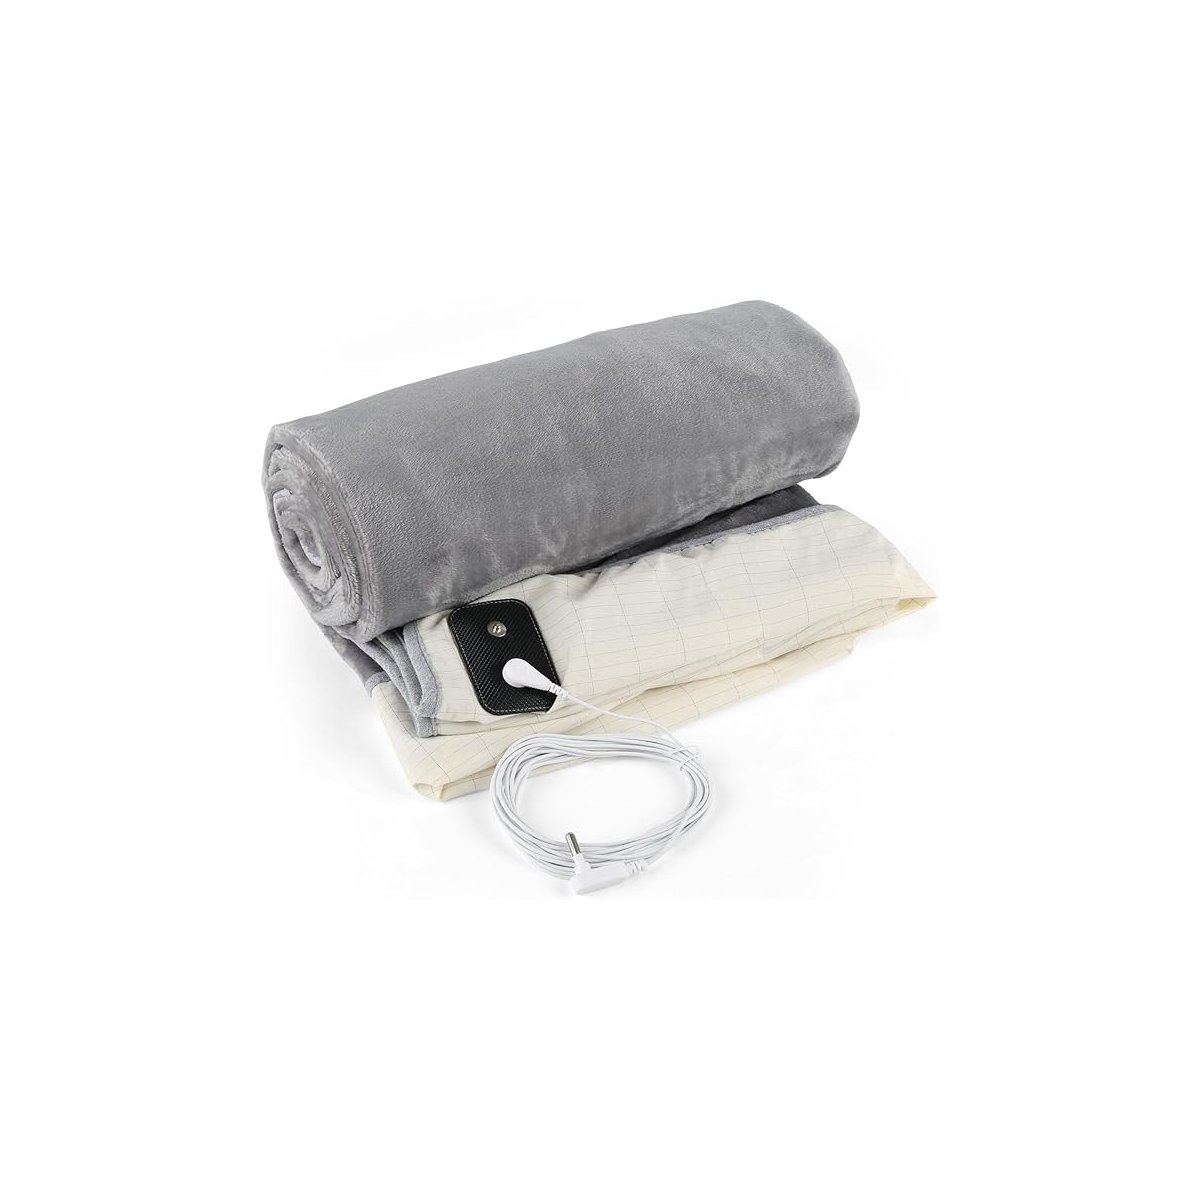
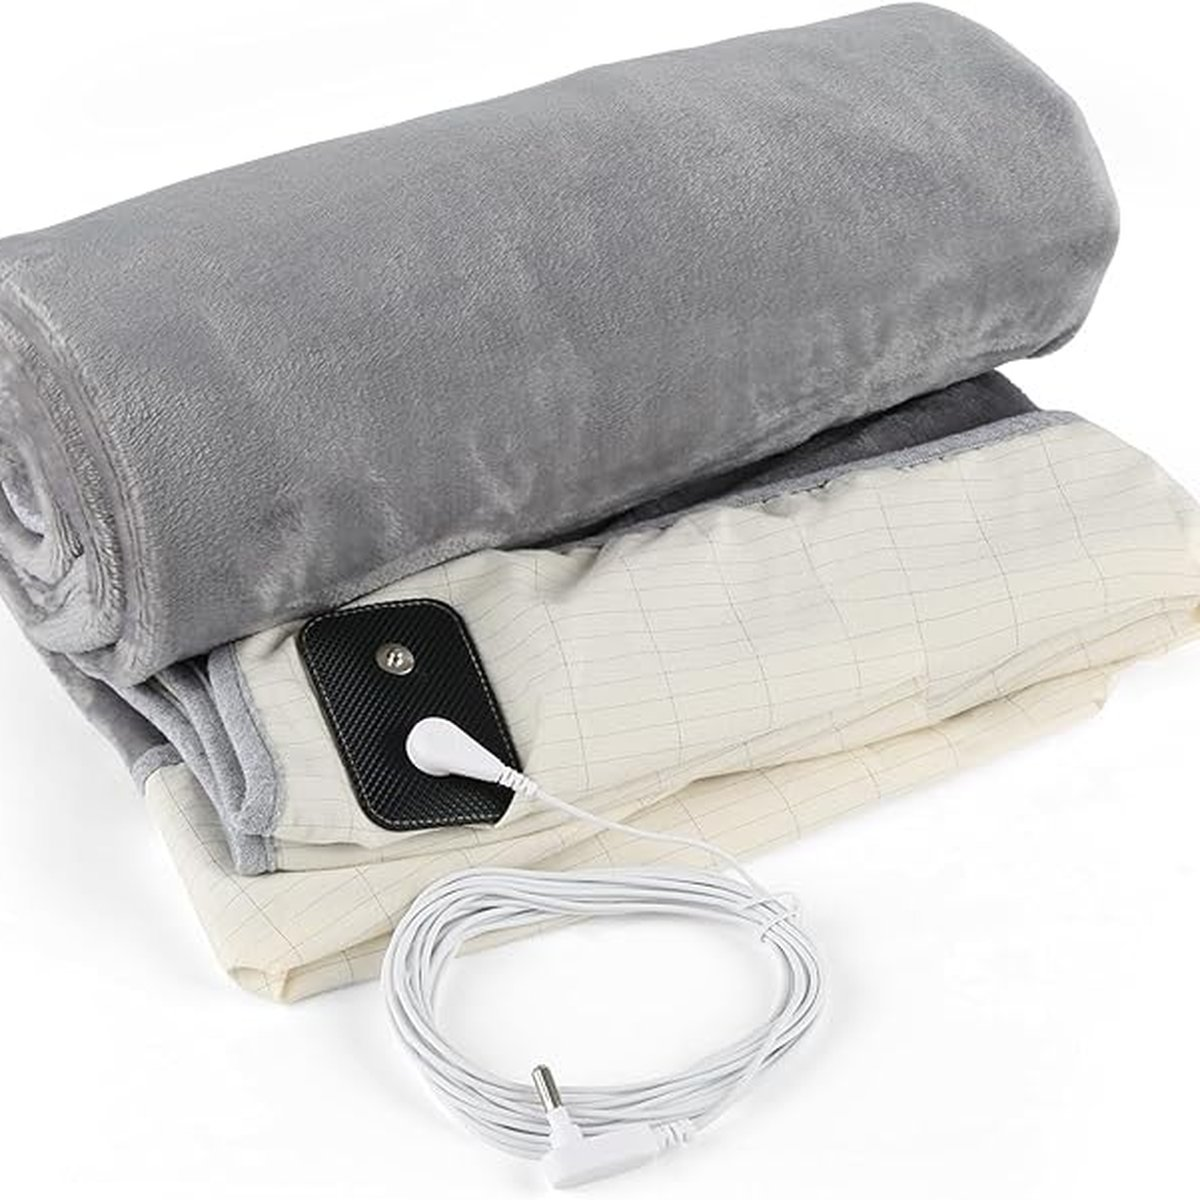
Fix grounding-blanket: Available Colors centering, re-resize grounding images fill-1200x1200

diff --git a/grounding-blanket.html b/grounding-blanket.html
@@ -2923,8 +2923,8 @@
                 <p class="section-label">Color Options</p>
                 <h2>Available Colors</h2>
             </div>
-            <div style="text-align:center;">
-                <img src="images/products/blanket_colors/colors.jpg" alt="Available Colors" style="max-width:900px;width:100%;border-radius:10px;box-shadow:0 6px 25px var(--color-shadow);">
+            <div style="max-width:900px;margin:0 auto;">
+                <img src="images/products/blanket_colors/colors.jpg" alt="Available Colors" style="width:100%;border-radius:10px;box-shadow:0 6px 25px var(--color-shadow);display:block;">
             </div>
         </div>
     </section>
